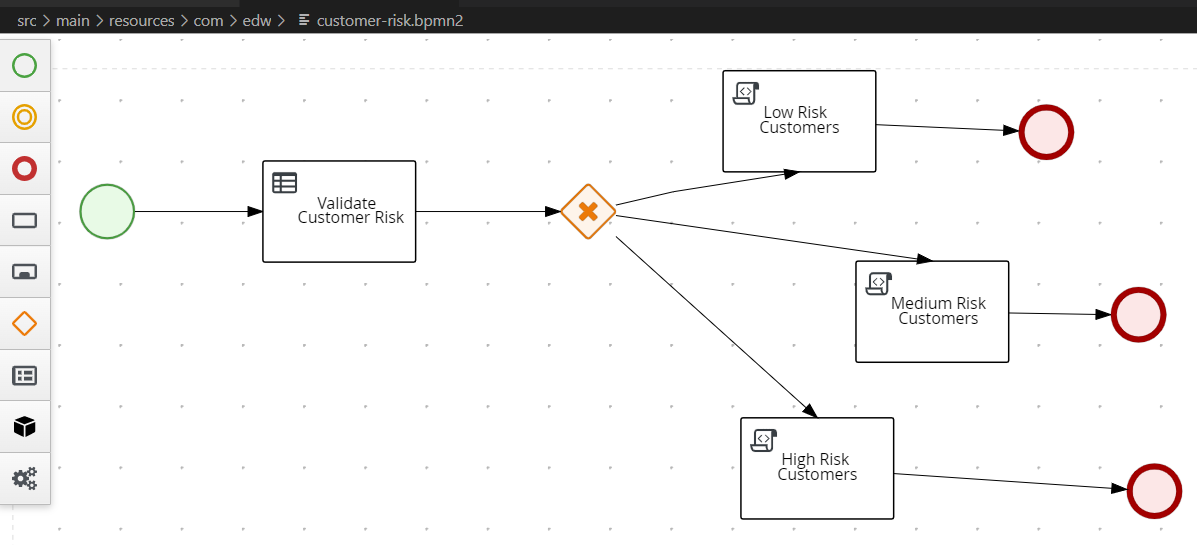
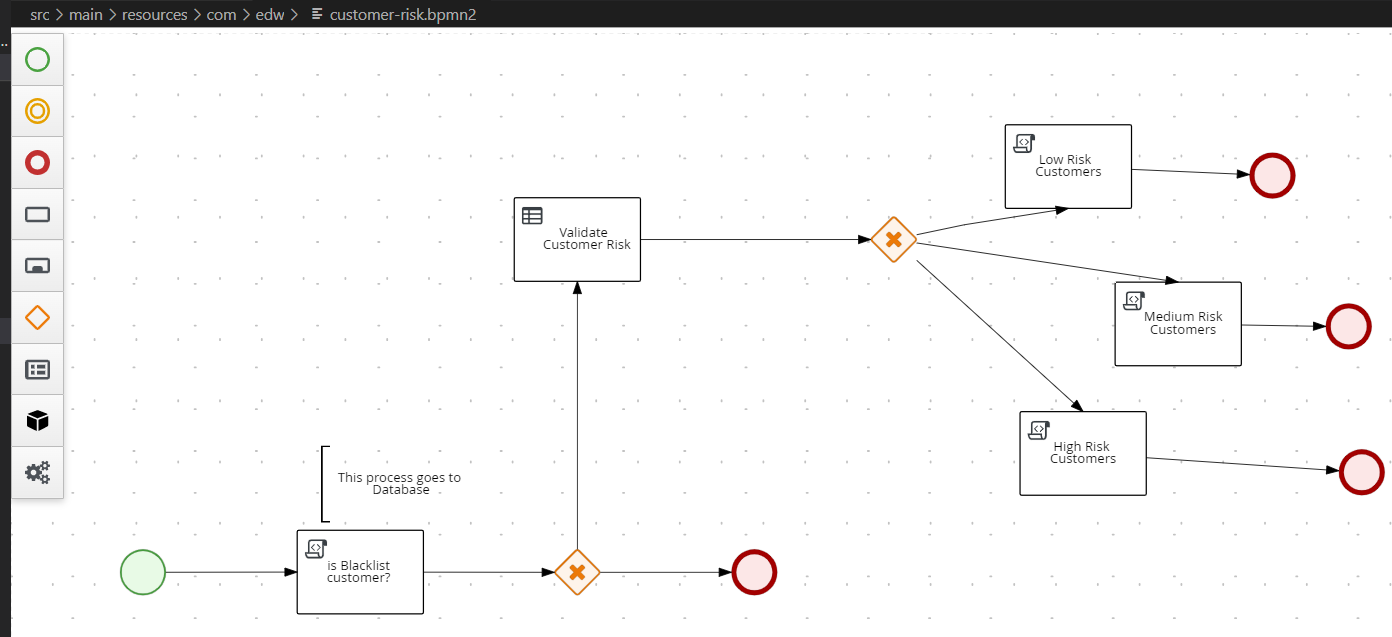
connecting to DB :boar:

diff --git a/src/test/java/com/edw/CustomerRiskTest.java b/src/test/java/com/edw/CustomerRiskTest.java
@@ -23,7 +23,7 @@ public class CustomerRiskTest {
     @Test
     public void testLowRiskCustomer() {
         given()
-                .body("{ \"age\": 25, \"salary\": 5000 }")
+                .body("{  \"name\": \"Edwin\", \"age\": 25, \"salary\": 5000 }")
                 .contentType(ContentType.JSON)
                 .when()
                 .post("/customer_risk")
@@ -36,7 +36,7 @@ public class CustomerRiskTest {
     @Test
     public void testMediumRiskCustomer() {
         given()
-                .body("{ \"age\": 15, \"salary\": 5000 }")
+                .body("{  \"name\": \"Edwin\", \"age\": 15, \"salary\": 5000 }")
                 .contentType(ContentType.JSON)
                 .when()
                 .post("/customer_risk")
@@ -48,7 +48,7 @@ public class CustomerRiskTest {
     @Test
     public void testHighRiskCustomer() {
         given()
-                .body("{ \"age\": 15, \"salary\": 300 }")
+                .body("{  \"name\": \"Edwin\", \"age\": 15, \"salary\": 300 }")
                 .contentType(ContentType.JSON)
                 .when()
                 .post("/customer_risk")

diff --git a/src/main/java/com/edw/service/BlacklistService.java b/src/main/java/com/edw/service/BlacklistService.java
@@ -4,7 +4,6 @@ import com.edw.entity.Blacklist;
 
 import javax.enterprise.context.ApplicationScoped;
 import javax.transaction.Transactional;
-import java.util.List;
 
 /**
  * <pre>
@@ -18,6 +17,8 @@ import java.util.List;
 @Transactional
 public class BlacklistService {
     public Boolean isBlacklist(String name) {
+        if(name == null || name.trim().isEmpty())
+            return true;
         return !Blacklist.find("name", name).list().isEmpty();
     }
 }

diff --git a/README.md b/README.md
@@ -61,3 +61,15 @@ Open `http://localhost:8080/q` from web browser to see all the BPMN endpoints.
 
 
 ```
+
+## Calling Quarkus Script from Inside BPMN
+```java
+    com.edw.service.BlacklistService blacklistService = new com.edw.service.BlacklistService();
+    if(blacklistService.isBlacklist(name)) {
+        kcontext.setVariable("blacklist", true);
+        kcontext.setVariable("status", "Loan is Rejected because Customer is Blacklisted");
+    }    
+    else {
+        kcontext.setVariable("blacklist", false);
+    }
+```
